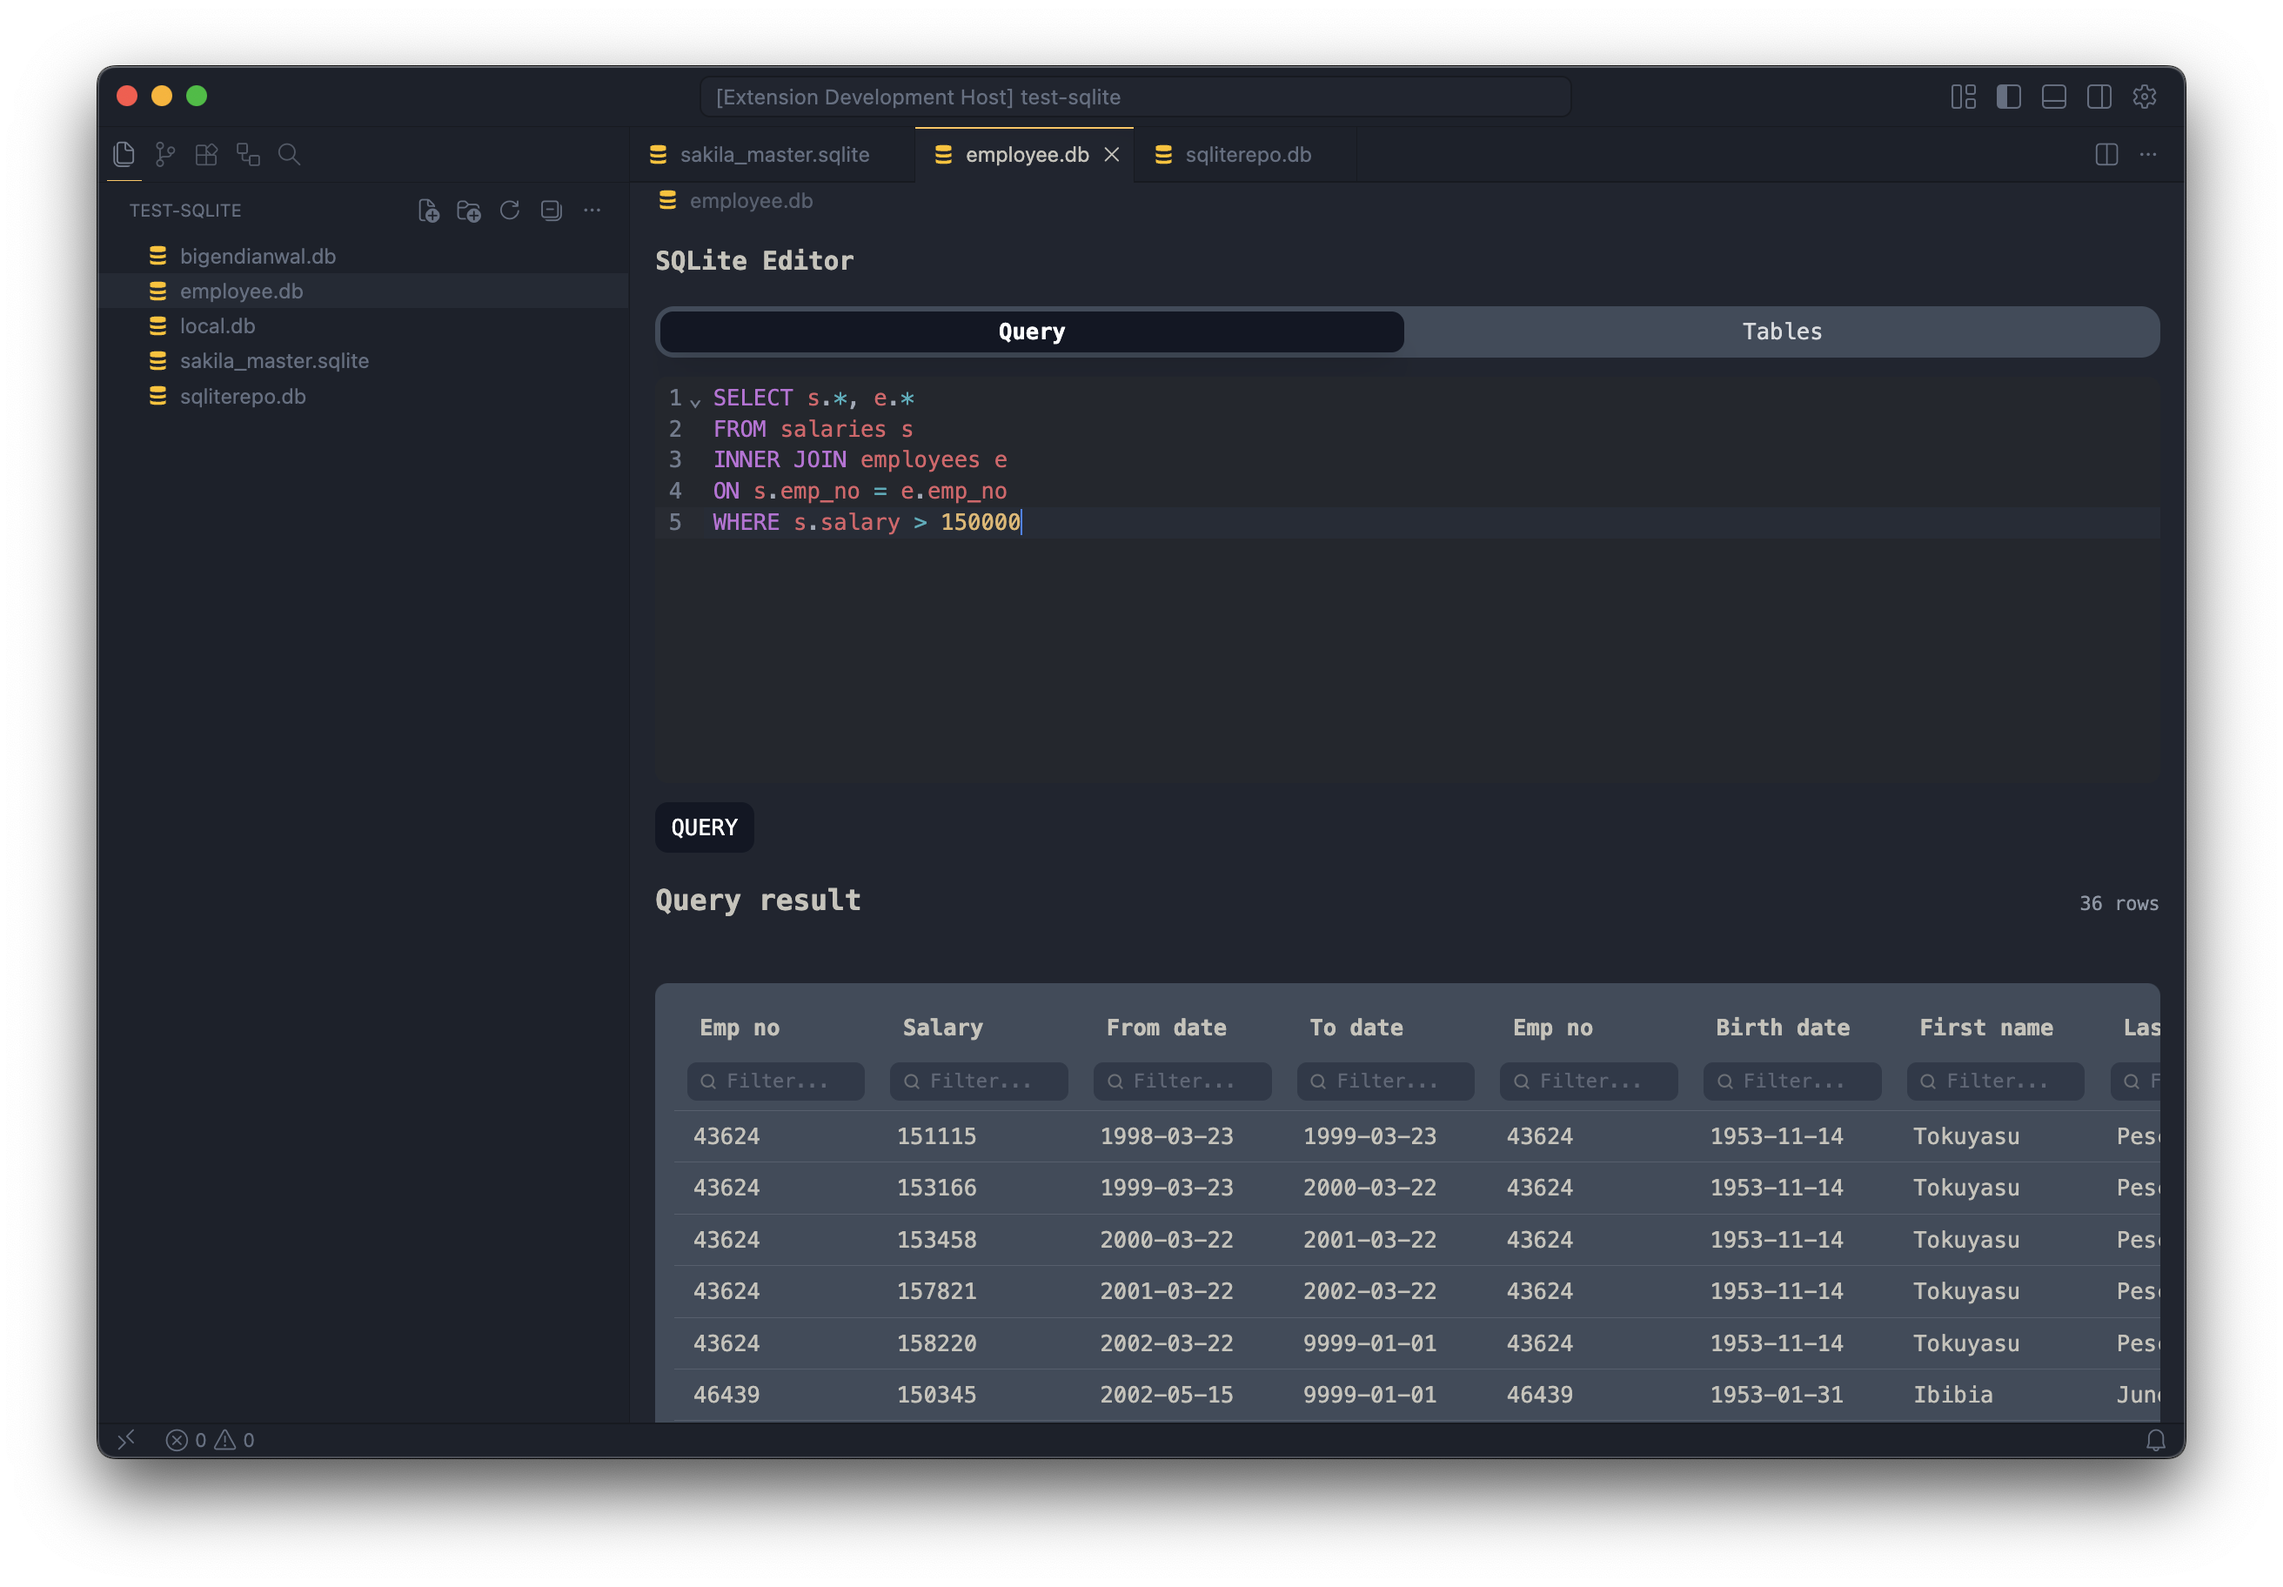
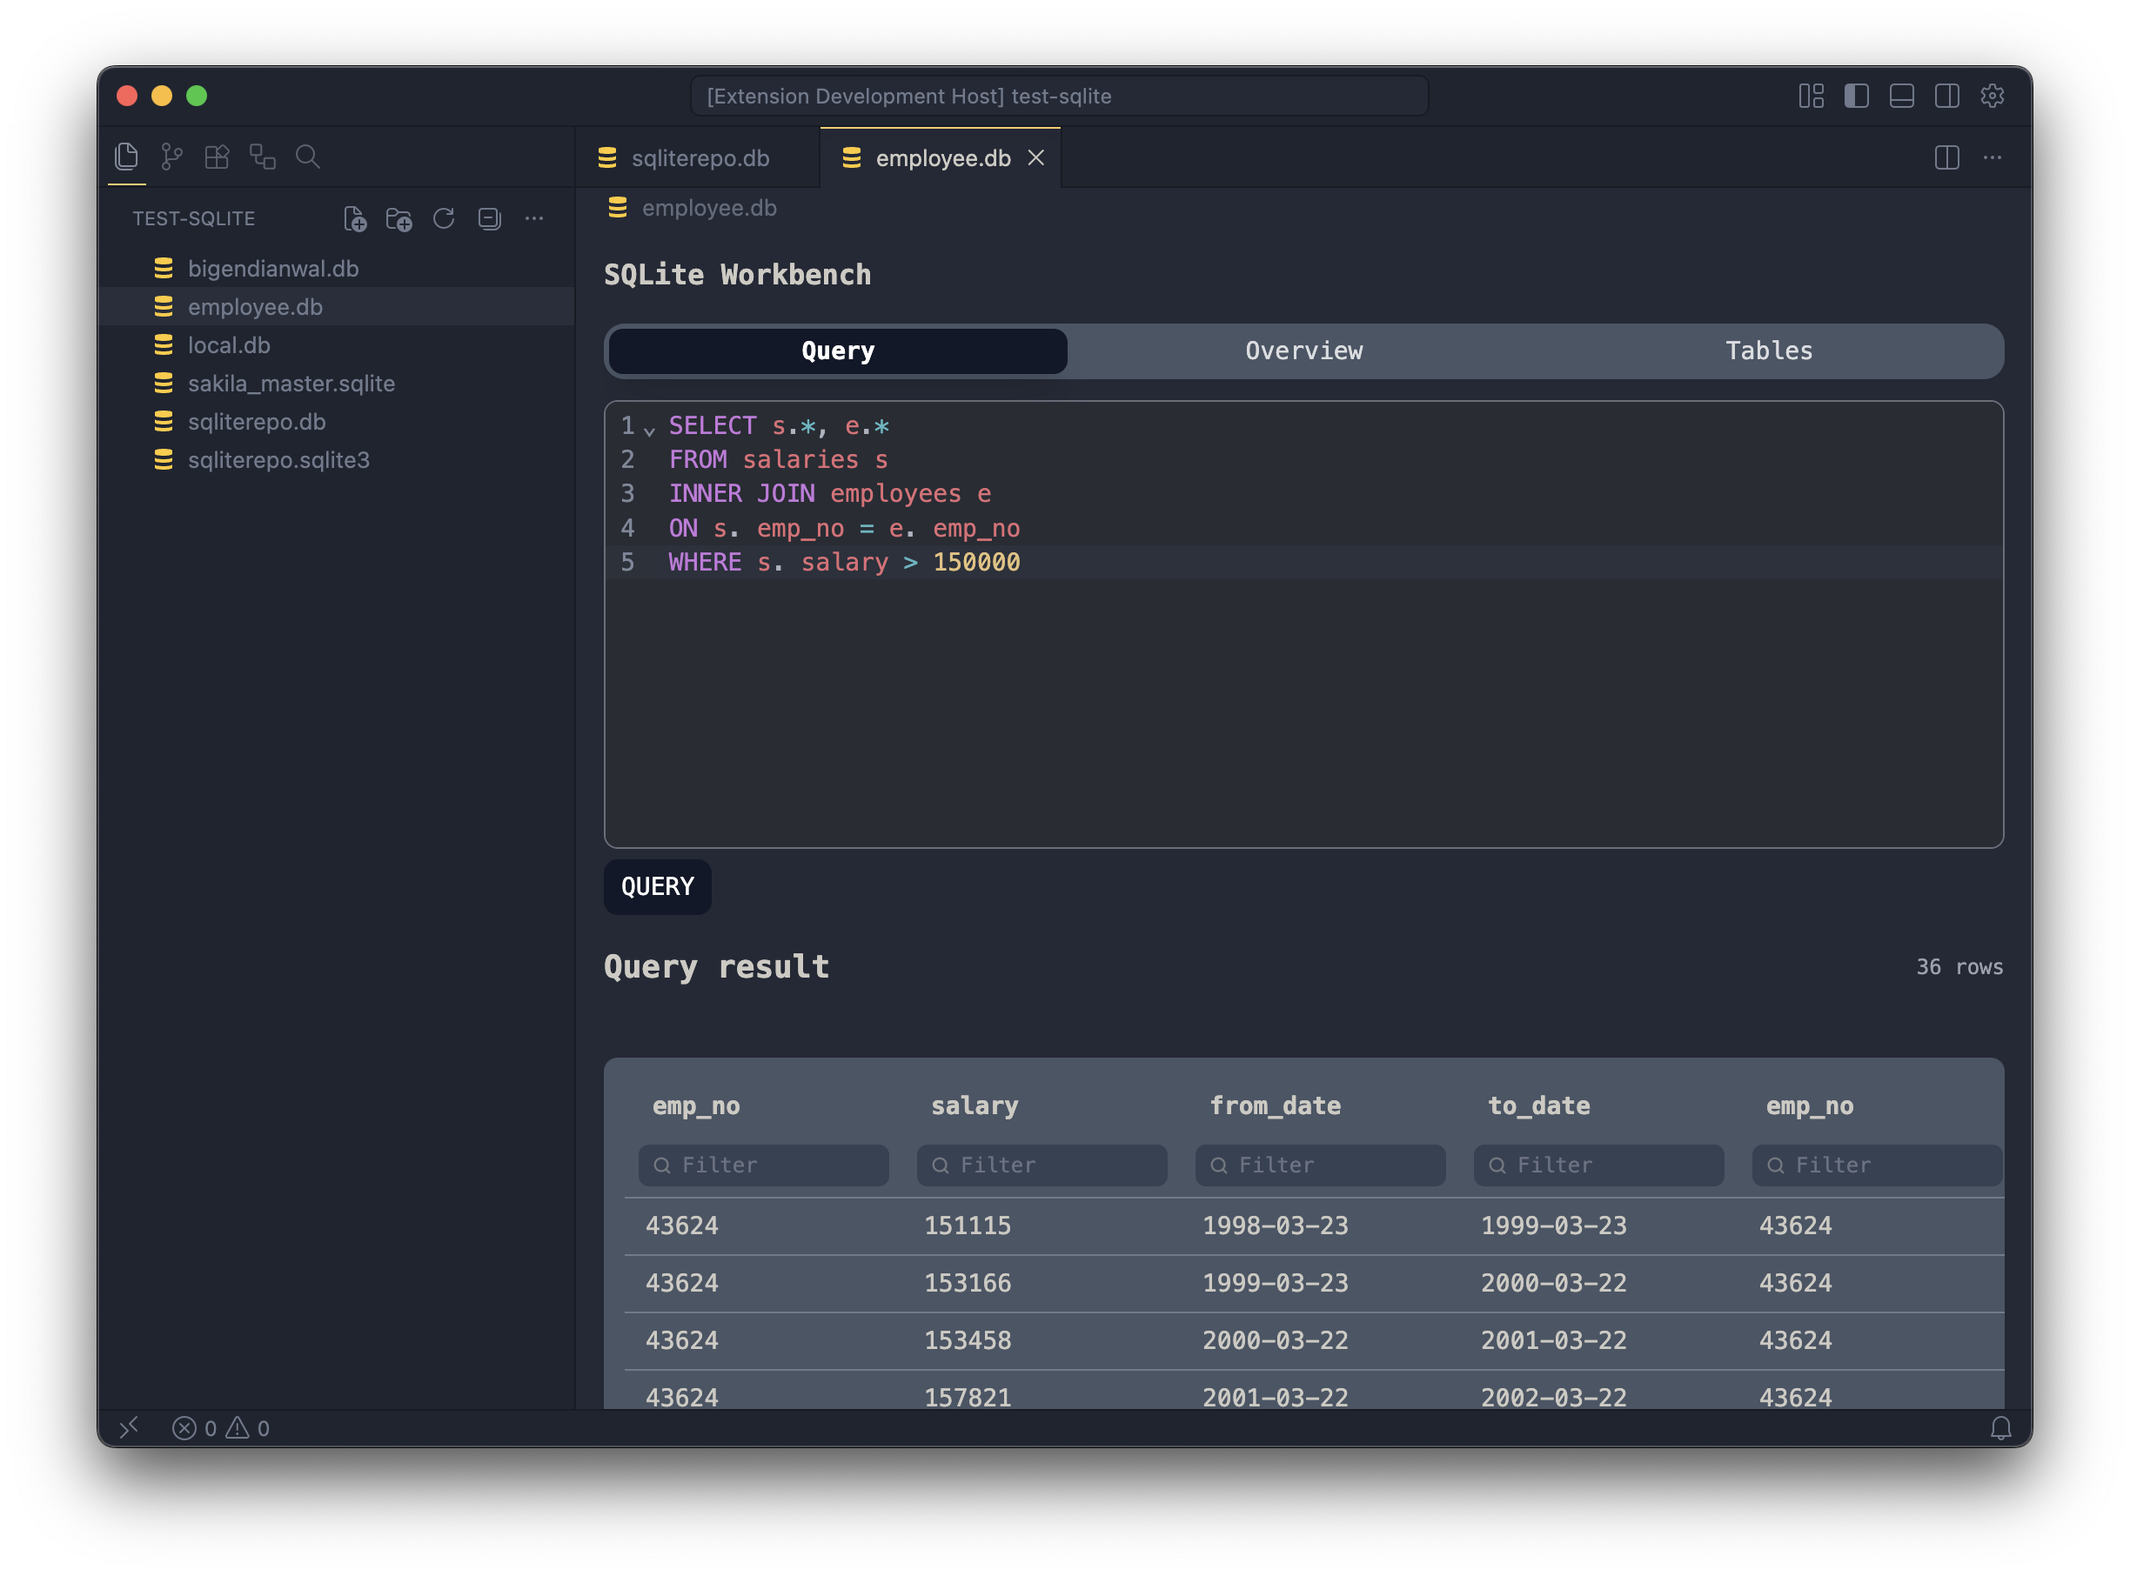
updated images

diff --git a/README.md b/README.md
@@ -13,5 +13,6 @@ A VS Code extension for viewing and querying SQLite databases.
 
 ## Images
 
-![Tables Preview](media/screen_tables.png)
 ![Query Preview](media/screen_query.png)
+![Overview Preview](media/screen_overview.png)
+![Tables Preview](media/screen_tables.png)
